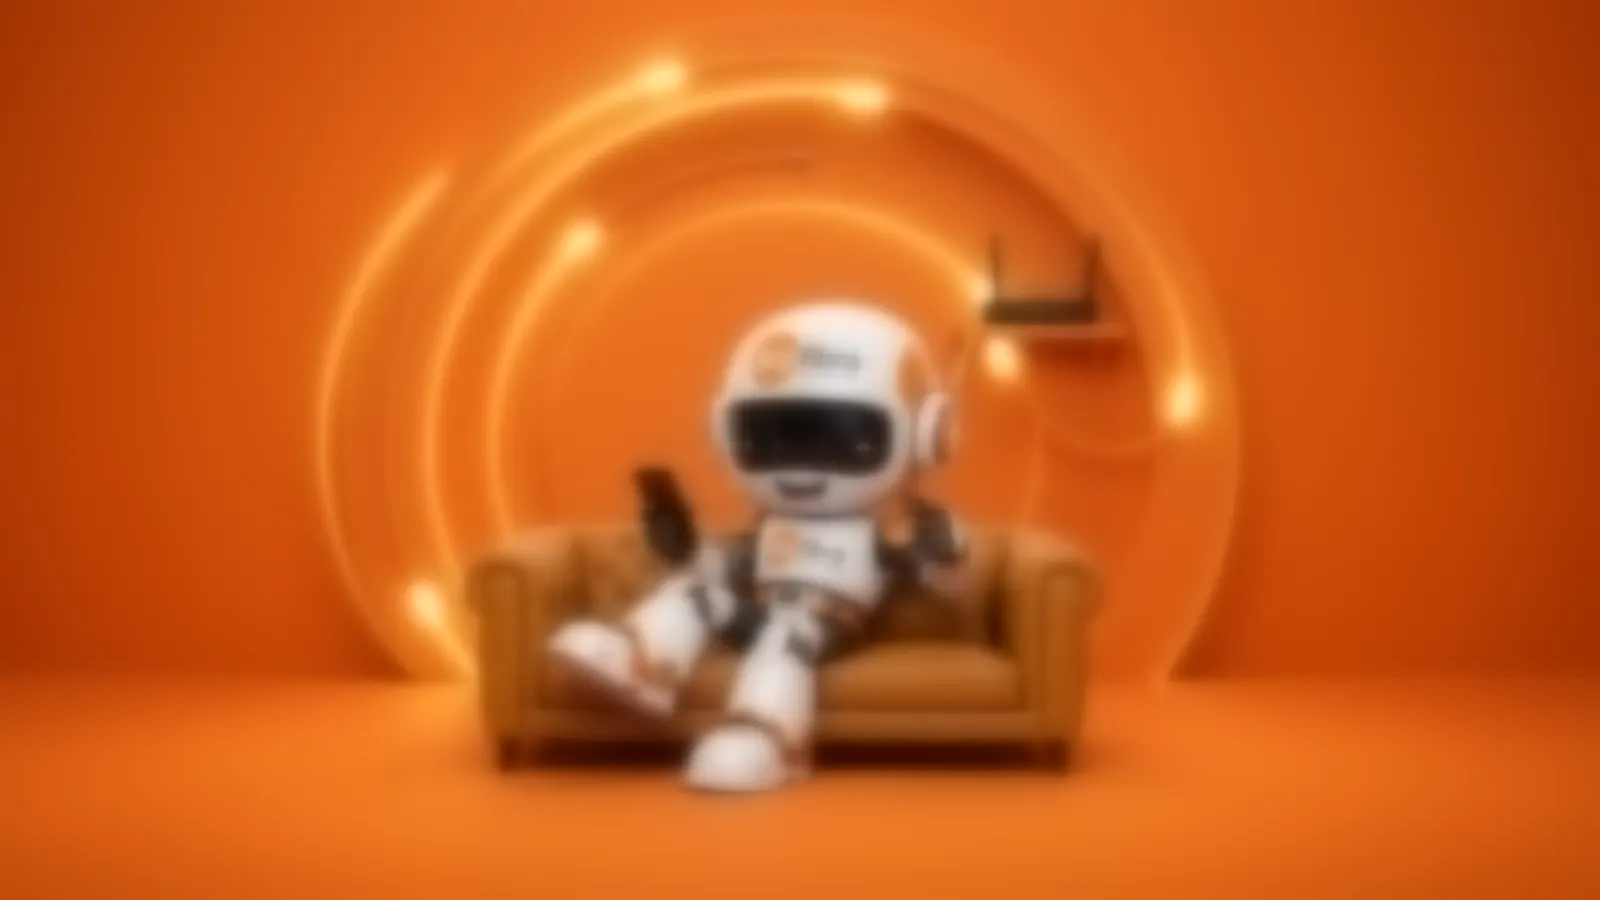
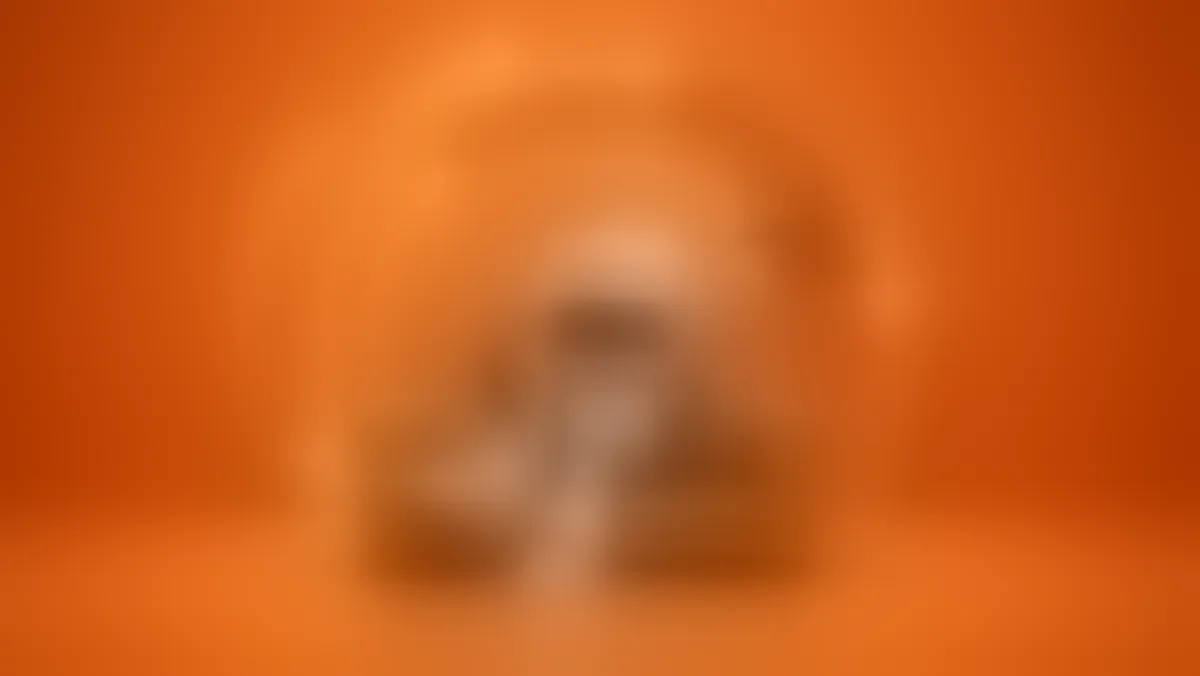
Tira o "reflexo" do video no mobile: fundo volta a ser abstrato
O fundo atras do video e um quadro do PROPRIO video, borrado. No mobile
o video (16:9) ocupa so a faixa do meio de uma tela alta, e o resto e
essa imagem; com object-cover numa tela estreita o recorte que sobra e
justamente a coluna central, que contem o personagem. Resultado: a cena
reaparecia embaixo do video e lia como um reflexo dele.

Foi regressao minha. Ao tentar melhorar o LCP eu deixei essa imagem
NITIDA de proposito, para passar do corte de entropia do Chrome (0,05
bits por pixel), que descarta imagens muito lisas como placeholder. So
que a cena voltou a ser reconhecivel — e a medicao posterior mostrou que
o ganho nao veio: o elemento de LCP da pagina e um <p>, nao a imagem, e
o LCP ficou em 4,8s antes e depois. Paguei com um defeito visivel por
um ganho que nao existiu.

Agora sigma 45: sobra so a mancha de cor, que e a unica funcao dela
ali. Continua em 6 KB, e a variante servida no mobile fica em 0,648 bpp,
entao segue valendo como candidata a LCP de qualquer forma.

O que trouxe ganho de verdade naquele commit foi trocar background-image
por <img priority>: o preload derrubou o FCP de 1,7s para 1,3s. Isso
fica, e esta conferido no navegador — o link de preload continua la.

diff --git a/components/Hero.tsx b/components/Hero.tsx
@@ -24,12 +24,20 @@ export default function Hero() {
           e casar o CSS; com <img priority> o Next emite um preload e o
           fetchpriority=high, então ele começa junto com o HTML.
 
-          E o Chrome descarta imagens de entropia muito baixa como candidatas a
-          LCP, por considerá-las placeholder. A versão anterior tinha 5,9 KB em
-          2,07 Mpx = 0,023 bits por pixel, abaixo do corte de 0,05, e por isso
-          o LCP da página caía no <video> lá nos 4,8s. Esta tem 0,080 bpp.
-          Não é truque de métrica: em conexão lenta o vídeo nunca chega, então
-          esta imagem é literalmente a hero que a pessoa vê. */}
+          O borrão é FORTE de propósito. A imagem é um quadro do próprio
+          vídeo, e no mobile o vídeo (16:9) ocupa só a faixa do meio de uma
+          tela alta — o resto é esta imagem. Com object-cover numa tela
+          estreita, o recorte que sobra é justamente a coluna central, que
+          contém o personagem: numa versão pouco borrada a cena reaparecia
+          embaixo e parecia um reflexo do vídeo. Com sigma 45 sobra só a
+          mancha de cor, que é a única função dela aqui.
+
+          O borrão forte também derruba a entropia, e o Chrome descarta
+          imagens abaixo de 0,05 bits por pixel como candidatas a LCP, por
+          tratá-las como placeholder. Esta fica em 0,061 — passa raspando, e
+          de todo modo o LCP da página não é ela: é texto. O ganho real de
+          trocar background-image por <img priority> veio do preload, que
+          baixou o FCP de 1,7s para 1,3s. */}
       <Image
         src="/hero-bg-blurred.webp"
         alt=""
